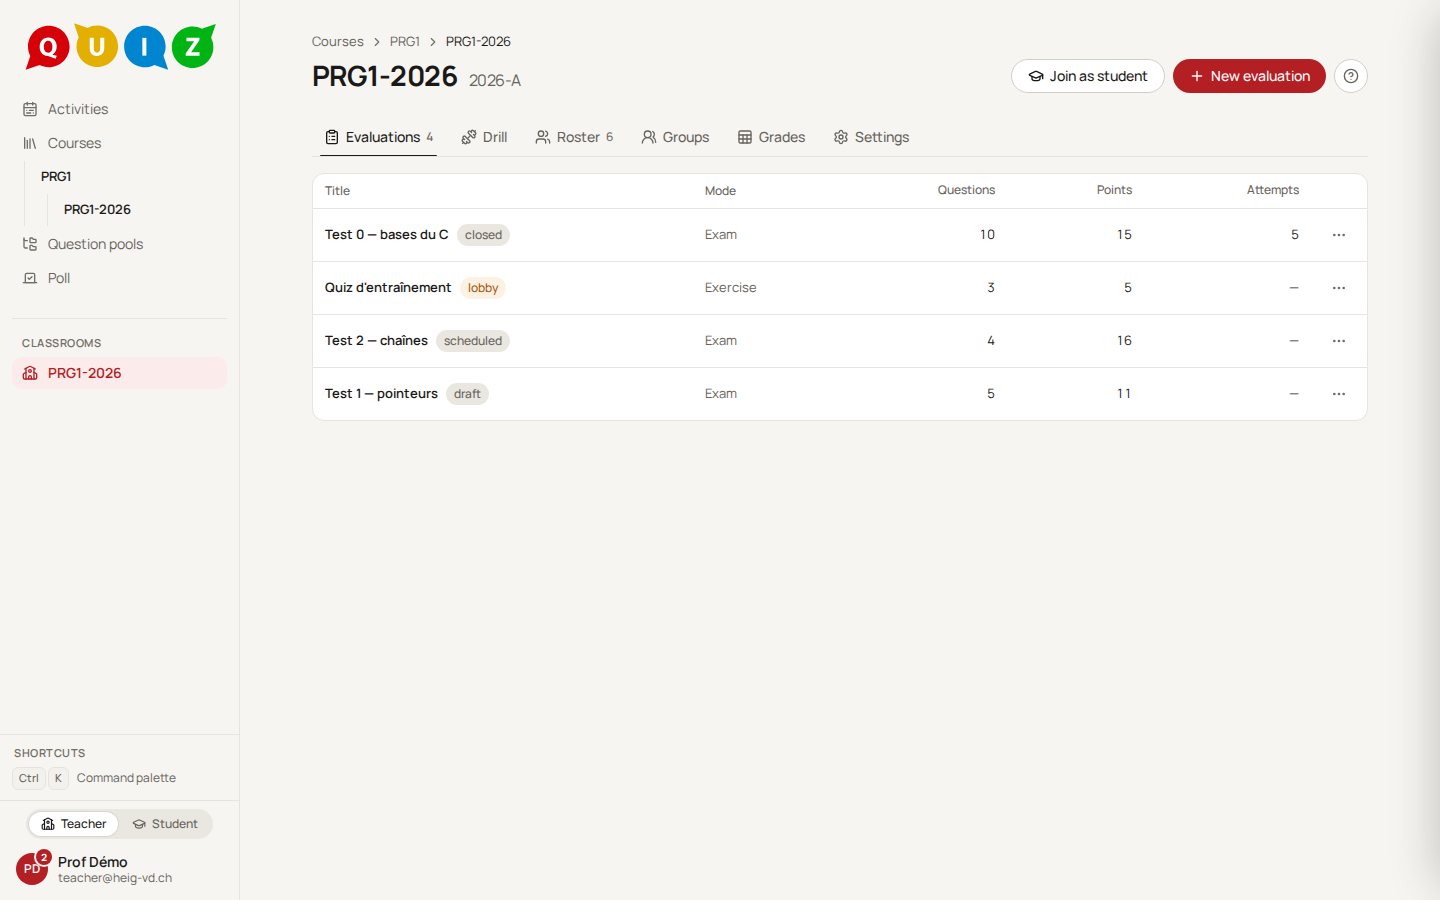
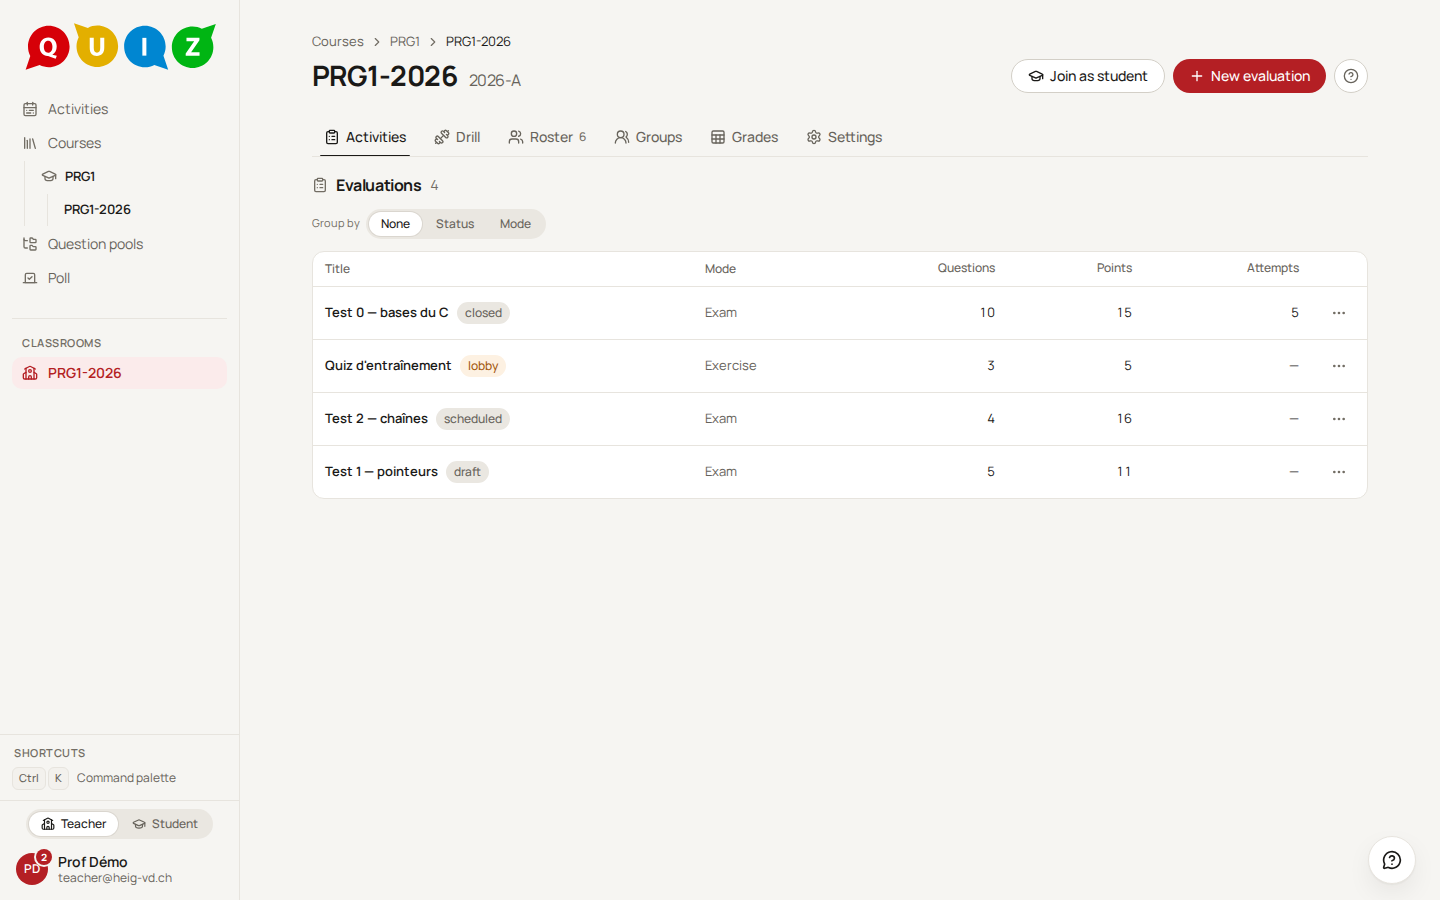
Classroom: rename the Evaluations tab to Activities and head both lists (#701)
* feat(web): rename the classroom's Evaluations tab to Activities and head both lists (#683)

The tab holds evaluations and projects, so it is now Activities with no
count; an Evaluations section heading, the sibling of Projects, carries
the evaluations' count. The tab's value and URL are unchanged.

* fix(web): always draw the Evaluations heading, refresh docs and screenshots (#683)

---------

diff --git a/apps/web/src/ClassroomView.tsx b/apps/web/src/ClassroomView.tsx
@@ -55,10 +55,9 @@ import { classroomKey } from "./queryKeys";
 import { Trail, useClassroomCrumbs } from "./Trail";
 import { invalidateHint } from "./realtime/hints";
 import { useClassroom } from "./course/parts";
-import { useEvaluations } from "./evaluation/api";
 
 /**
- * One classroom: its roster, its evaluations, its drill and its settings,
+ * One classroom: its roster, its activities, its drill and its settings,
  * one tab each.
  *
  * Two lists that never answer the same question sat stacked on one page, so
@@ -66,9 +65,10 @@ import { useEvaluations } from "./evaluation/api";
  * tabs also settle the primary action, and the page header carries it in the
  * same slot whichever tab is open: "Add students" on the roster — an empty
  * roster is the only thing that blocks everything a classroom is for — and
- * "New evaluation" on the evaluations (#295), a "New ▾" of Evaluation and
- * Project since M3-10 (`NewActivity`), whose projects are a group under the
- * evaluations (`ProjectGroup`). The third tab, the drill
+ * "New evaluation" on the Activities tab (#295, #683), a "New ▾" of Evaluation
+ * and Project since M3-10 (`NewActivity`), whose projects are a section under
+ * the evaluations' (`ProjectGroup`). The tab's value stays `evaluations`, so
+ * old links keep working. The third tab, the drill
  * (ADR-041, #317), is a read view — each student's practice — so the slot
  * stays empty there. The fourth, Settings (F-ORG-13, D24), is a route of its
  * own (`/classrooms/:id/settings`): rename, archive, delete and the drill
@@ -210,14 +210,6 @@ export function ClassroomView({
 
   const crumbs = useClassroomCrumbs(id);
   const room = useClassroom(id);
-  /**
-   * The evaluations, for the number on their tab. It is the query the list
-   * itself runs, key included, so the count and the rows are one cache entry
-   * and can never disagree — a count carried by the classroom payload would
-   * still read "2" the moment after a third evaluation was created.
-   */
-  const evaluations = useEvaluations(id);
-
   /**
    * The teacher takes a (staff) seat in their own classroom, to walk the
    * student flow without a second account. It stays out of the headcount.
@@ -361,10 +353,9 @@ export function ClassroomView({
           items={[
             {
               value: "evaluations",
-              label: t("eval.title"),
-              // No number while the list is loading or failed: a "0" that
-              // means "not known yet" is worse than no count at all.
-              count: evaluations.data?.length,
+              // "Activities": evaluations and projects, each list counting
+              // itself under its own heading (#683), so the tab has no number.
+              label: t("classroom.tab.activities"),
               icon: ClipboardList,
               coach: "classroom.tab.evaluations",
             },

diff --git a/apps/web/src/ClassroomView.test.tsx b/apps/web/src/ClassroomView.test.tsx
@@ -85,7 +85,7 @@ describe("ClassroomView", () => {
       [`GET ${EVALUATIONS}`]: ok([]),
     });
     renderWithProviders(<ClassroomView id="r1" navigate={vi.fn()} />);
-    expect(await screen.findByRole("tab", { name: /Evaluations/ })).toHaveAttribute(
+    expect(await screen.findByRole("tab", { name: /Activities/ })).toHaveAttribute(
       "aria-selected",
       "true",
     );
@@ -98,7 +98,7 @@ describe("ClassroomView", () => {
       [`GET ${EVALUATIONS}`]: ok([]),
     });
     renderWithProviders(<ClassroomView id="r1" navigate={vi.fn()} />);
-    expect(await screen.findByRole("tab", { name: /Evaluations/ })).toHaveAttribute(
+    expect(await screen.findByRole("tab", { name: /Activities/ })).toHaveAttribute(
       "aria-selected",
       "true",
     );
@@ -191,16 +191,25 @@ describe("ClassroomView", () => {
     expect(screen.getByRole("tab", { name: /Roster/ })).toHaveTextContent("2");
   });
 
-  it("counts the evaluations on their tab", async () => {
+  it("names the tab Activities, with no count, and counts the evaluations under their heading", async () => {
     mockFetch({
       [`GET ${ROOM}`]: ok(makeClassroomDetail()),
       [`GET ${EVALUATIONS}`]: ok([summary({ title: "Test 0" }), summary({ title: "Test 1" })]),
     });
-    renderWithProviders(<ClassroomView id="r1" navigate={vi.fn()} />, { route: ROSTER_TAB });
-    // The roster tab is the one on screen: the count comes from the list's
-    // own query, not from the panel being mounted.
-    const tab = await screen.findByRole("tab", { name: /Evaluations/ });
-    await waitFor(() => expect(tab).toHaveTextContent("2"));
+    renderWithProviders(<ClassroomView id="r1" navigate={vi.fn()} />);
+    const tab = await screen.findByRole("tab", { name: /Activities/ });
+    expect(tab).toHaveTextContent(/^Activities$/);
+    expect(await screen.findByRole("heading", { name: /Evaluations/ })).toBeVisible();
+    expect(await screen.findByText("Test 1")).toBeVisible();
+    expect(screen.getByRole("region", { name: /Evaluations/ })).toHaveTextContent(/Evaluations\s*2/);
+  });
+
+  it("keeps the Evaluations heading above the empty state", async () => {
+    mockFetch({ [`GET ${ROOM}`]: ok(makeClassroomDetail()), [`GET ${EVALUATIONS}`]: ok([]) });
+    renderWithProviders(<ClassroomView id="r1" navigate={vi.fn()} />);
+    await screen.findByRole("tab", { name: /Activities/ });
+    await screen.findByText("No evaluation yet");
+    expect(screen.getByRole("heading", { name: /Evaluations/ })).toBeVisible();
   });
 
   it("moves between the two tabs and writes the choice to the URL", async () => {

diff --git a/apps/web/src/evaluation/EvaluationList.tsx b/apps/web/src/evaluation/EvaluationList.tsx
@@ -20,6 +20,7 @@ import {
   Menu,
   pressable,
   QueryError,
+  SectionHeading,
   GroupBySwitch,
   Select,
   Skeleton,
@@ -300,13 +301,17 @@ export function EvaluationList({
   const open = (row: EvaluationSummary) => navigate(evaluationHome(row));
 
   return (
-    <section className="space-y-3">
-      {/* No heading and no button: the tab above names the list, and "New
-          evaluation" sits in the page header, where "Add students" stands on
-          the roster tab — one primary per tab, always in the same place.
-          The classroom's projects, when it has any, follow under a heading
-          of their own (`ProjectGroup`, M3-10): the tab names this list, not
-          the second one. */}
+    <section aria-labelledby="classroom-evaluations" className="space-y-3">
+      {/* No button: "New evaluation" sits in the page header, where "Add
+          students" stands on the roster tab — one primary per tab, always in
+          the same place. The heading is the sibling of the projects' one
+          (`ProjectGroup`, M3-10): the tab is "Activities", each list names
+          itself and carries its own count (none while it loads or failed). */}
+      <SectionHeading
+        icon={ClipboardList}
+        title={<span id="classroom-evaluations">{t("eval.title")}</span>}
+        count={list.data?.length}
+      />
       {list.isLoading ? (
         <Skeleton className="h-40 w-full" />
       ) : list.isError || !list.data ? (

diff --git a/apps/web/src/project/ProjectGroup.tsx b/apps/web/src/project/ProjectGroup.tsx
@@ -26,17 +26,16 @@ import {
 type SortKey = "title" | "start" | "deadline";
 
 /**
- * The classroom's projects (F-PROJ-01, M3-10), a group under its evaluations
- * on the same tab: the Evaluations table stays as it was, and this one only
- * exists while the classroom HAS a project. A classroom that never used
+ * The classroom's projects (F-PROJ-01, M3-10), a section under the evaluations'
+ * on the Activities tab (#683): this one only exists while the classroom HAS a project. A classroom that never used
  * GitHub — most of them — reads exactly as before, and so does a platform
  * without the App (the route answers 404). For the same reason nothing is
  * drawn while the list loads: the group's very existence is what is not
  * known yet, and a skeleton that collapses to nothing on most classrooms is
  * a jump on every visit. A failure says so, with a retry.
  *
- * It carries a heading and the evaluations do not: the tab already names
- * the evaluations, and the projects are the second thing on it.
+ * Its heading is the sibling of the evaluations' (`EvaluationList`): each
+ * list names itself and carries its own count.
  *
  * No button: "New ▾ › Project" is in the page header, the tab's one primary.
  * A row is a title, its state, its start and its deadline, and opens the

diff --git a/apps/web/src/i18n/fr.ts b/apps/web/src/i18n/fr.ts
@@ -4839,6 +4839,7 @@ export const fr: Record<keyof Dict, string> = {
   "drill.optOut.done": "Vous avez quitté les révisions de {name}.",
   "drill.optIn.done": "Vous avez rejoint à nouveau les révisions de {name}.",
   "drill.failed": "Impossible de modifier les révisions",
+  "classroom.tab.activities": "Activités",
   "classroom.drill.desc": "Les étudiants travaillent, à intervalles espacés, les questions des évaluations passées qui autorisent les révisions. Ils y participent par défaut et peuvent s'en retirer ; vous voyez leur activité.",
   "classroom.drill.on": "Révisions activées.",
   "classroom.drill.off": "Révisions désactivées.",

diff --git a/apps/web/src/i18n/en.ts b/apps/web/src/i18n/en.ts
@@ -4844,6 +4844,7 @@ export const en = {
   "drill.optIn.done": "You are back in the drill of {name}.",
   "drill.failed": "Could not change the drill",
   // The drill (ADR-041, #317): the teacher's switches.
+  "classroom.tab.activities": "Activities",
   "classroom.drill.desc": "Students practise the questions of past evaluations that allow the drill, at spaced intervals. They are in by default and may opt out; you see their activity.",
   "classroom.drill.on": "Drill on.",
   "classroom.drill.off": "Drill off.",

diff --git a/docs/guide/classrooms.md b/docs/guide/classrooms.md
@@ -35,15 +35,15 @@ On the course page's **Classrooms** tab, click **New classroom**. A classroom ha
 
 ### The classroom screen
 
-The eyebrow above the title names the course and goes back to it. The title is the classroom's name, followed by the page's help **?**, by the period and, when the classroom is connected to GitHub, by its organization. Under the title, four tabs, and the primary action at the right of the title changes with the tab, always in the same place: **Add students** on the roster, **New evaluation** on the evaluations; the **Drill** tab is a read view and **Settings** a page of settings, and neither has one.
+The eyebrow above the title names the course and goes back to it. The title is the classroom's name, followed by the page's help **?**, by the period and, when the classroom is connected to GitHub, by its organization. Under the title, four tabs, and the primary action at the right of the title changes with the tab, always in the same place: **Add students** on the roster, **New evaluation** on the activities; the **Drill** tab is a read view and **Settings** a page of settings, and neither has one.
 
 <figure markdown="span">
-  ![A classroom, on its evaluations tab](../assets/screenshots/classroom-evaluations-light.png#only-light)
-  ![A classroom, on its evaluations tab](../assets/screenshots/classroom-evaluations-dark.png#only-dark)
-  <figcaption>The Evaluations tab: one row per evaluation, with its state, its mode, its questions, its points and its attempts.</figcaption>
+  ![A classroom, on its Activities tab](../assets/screenshots/classroom-evaluations-light.png#only-light)
+  ![A classroom, on its Activities tab](../assets/screenshots/classroom-evaluations-dark.png#only-dark)
+  <figcaption>The Activities tab, Evaluations section: one row per evaluation, with its state, its mode, its questions, its points and its attempts.</figcaption>
 </figure>
 
-**Evaluations** lists the evaluations you run with this group, each with its state: draft, scheduled, waiting room (shown as *lobby*), running, paused, closed, grading, released. The row's menu leads to what the state allows: the setup, the live dashboard, the grading panel or the results. The chapters [Evaluations](evaluations.md), [Running an evaluation](live.md) and [Grading and results](grading.md) take it from there.
+The **Activities** tab opens on an **Evaluations** section, which lists the evaluations you run with this group, each with its state: draft, scheduled, waiting room (shown as *lobby*), running, paused, closed, grading, released. The row's menu leads to what the state allows: the setup, the live dashboard, the grading panel or the results. The chapters [Evaluations](evaluations.md), [Running an evaluation](live.md) and [Grading and results](grading.md) take it from there.
 
 <figure markdown="span">
   ![The same classroom, on its roster tab](../assets/screenshots/classroom-roster-light.png#only-light)
@@ -120,7 +120,7 @@ GitHub is optional: a classroom that is never connected is a plain Quiz classroo
 - Once connected, the section shows the organization and three checks: the App installed with access to every repository (the only one that blocks), the organization's plan (on the free plan, no rulesets and no organization secrets for private repositories), and the `ANTHROPIC_API_KEY` secret the LLM review of projects needs (present, missing, or unknown when the App cannot read secrets).
 - **Disconnect** deletes nothing on GitHub. It is refused while the classroom has a journal: remove the journal first.
 
-Once connected, the classroom can hold [projects](projects.md) (**New**, then **Project**, on the Evaluations tab) and its **Groups** tab keeps the [group sets](groups.md) they follow. Installing the App, the checks and what students must do to link their account are in [Connecting GitHub](github.md).
+Once connected, the classroom can hold [projects](projects.md) (**New**, then **Project**, on the Activities tab) and its **Groups** tab keeps the [group sets](groups.md) they follow. Installing the App, the checks and what students must do to link their account are in [Connecting GitHub](github.md).
 
 Your own GitHub account is linked from your **Settings** page, in its **GitHub** card, which shows once you are on the staff of a connected classroom, or hold a seat as a student in one. **Link GitHub** goes through GitHub's authorisation and comes back to the page you started from, with a message saying it is linked, already linked to another Quiz account, or failed. **Unlink** undoes it.
 

diff --git a/apps/web/src/help/classroom.fr.md b/apps/web/src/help/classroom.fr.md
@@ -22,18 +22,19 @@ tant qu'étudiant** fait tout cela d'un clic — la place vous est proposée si
 vous n'en avez pas, puis la vraie salle d'attente et le vrai lecteur
 s'ouvrent.
 
-## Évaluations
+## Activités
 
-Les évaluations de cette classe, chacune avec son état — brouillon,
-planifiée, salle d'attente, en cours, en pause, clôturée, correction,
-publiée. Depuis une ligne, vous atteignez sa configuration, le tableau de
-bord, le panneau de correction ou les résultats, selon l'endroit où elle en
-est. **Nouvelle évaluation**, en haut à droite tant que cet onglet est
-ouvert, en crée une. Là où la plateforme offre les projets, ce bouton est
-**Nouveau**, un menu d'**Évaluation** et de **Projet** : un projet demande
-la classe connectée à GitHub, et sur une classe qui ne l'est pas, Projet
-ouvre d'abord la connexion dans les Réglages. Les projets de la classe sont
-listés sous ses évaluations, chacun avec son état, son début et son
+L'onglet réunit les activités de la classe. **Évaluations** liste ses
+évaluations, chacune avec son état — brouillon, planifiée, salle d'attente,
+en cours, en pause, clôturée, correction, publiée. Depuis une ligne, vous
+atteignez sa configuration, le tableau de bord, le panneau de correction ou
+les résultats, selon l'endroit où elle en est. **Nouvelle évaluation**, en
+haut à droite tant que cet onglet est ouvert, en crée une. Là où la
+plateforme offre les projets, ce bouton est **Nouveau**, un menu
+d'**Évaluation** et de **Projet** : un projet demande la classe connectée à
+GitHub, et sur une classe qui ne l'est pas, Projet ouvre d'abord la
+connexion dans les Réglages. Les projets de la classe sont listés sous
+**Projets**, sous les évaluations, chacun avec son état, son début et son
 échéance.
 
 ## Réglages

diff --git a/apps/web/src/help/classroom.md b/apps/web/src/help/classroom.md
@@ -20,18 +20,18 @@ stays out of the headcount. From an evaluation, **View as student** does the
 whole thing in one click — it offers the seat if you have none, then walks
 you through the real waiting room and player.
 
-## Evaluations
+## Activities
 
-The evaluations of this classroom, each with its state — draft, scheduled,
-waiting room, running, paused, closed, grading, released. From a row you
-reach its configuration, the live dashboard, the grading panel or the
-results, depending on where it stands. **New evaluation**, at the top right
-while this tab is open, creates one. Where the platform offers projects, that
-button is **New**, a menu of **Evaluation** and **Project**: a project needs
-the classroom connected to GitHub, and on a classroom that is not, Project
-opens the connection in the Settings first. The classroom's projects are
-listed under its evaluations, each with its state, its start and its
-deadline.
+The tab holds the classroom's activities. **Evaluations** lists its
+evaluations, each with its state — draft, scheduled, waiting room, running,
+paused, closed, grading, released. From a row you reach its configuration,
+the live dashboard, the grading panel or the results, depending on where it
+stands. **New evaluation**, at the top right while this tab is open, creates
+one. Where the platform offers projects, that button is **New**, a menu of
+**Evaluation** and **Project**: a project needs the classroom connected to
+GitHub, and on a classroom that is not, Project opens the connection in the
+Settings first. The classroom's projects are listed under **Projects**, below
+the evaluations, each with its state, its start and its deadline.
 
 ## Settings
 

diff --git a/docs/guide/live.md b/docs/guide/live.md
@@ -4,7 +4,7 @@ The live dashboard is the screen you keep open while the class takes an evaluati
 
 ## Reaching the dashboard
 
-From the classroom's **Evaluations** tab, a row in `lobby`, `running` or `paused` opens the dashboard on a click; the row's menu also offers **Live dashboard** for any evaluation past `draft`. From the configuration screen, the **Launch** tab of a live evaluation shows **Go to the dashboard**.
+From the classroom's **Activities** tab, a row in `lobby`, `running` or `paused` opens the dashboard on a click; the row's menu also offers **Live dashboard** for any evaluation past `draft`. From the configuration screen, the **Launch** tab of a live evaluation shows **Go to the dashboard**.
 
 The **Configure** link above the title leads back to the three configuration steps, where nothing structural can change any more.
 

diff --git a/docs/guide/evaluations.md b/docs/guide/evaluations.md
@@ -4,7 +4,7 @@ An evaluation is an ordered list of questions taken from the pools of a course, 
 
 ## Create an evaluation
 
-Open the classroom and its **Evaluations** tab (see [Classrooms](classrooms.md)), then click **New evaluation**. Give it a **Title** and pick a **Mode**:
+Open the classroom and its **Activities** tab (see [Classrooms](classrooms.md)), then click **New evaluation**. Give it a **Title** and pick a **Mode**:
 
 - **Exam**: graded, taken in one sitting, no feedback before you release the results.
 - **Exercise**: practice, with feedback as soon as a question is validated; it starts Live, open until you close it, and **Scheduled** gives it a deadline.

diff --git a/changes/classroom-activities-tab.md b/changes/classroom-activities-tab.md
@@ -1,0 +1,6 @@
+---
+audience: teacher
+kind: changed
+en: The classroom's first tab is now **Activities**, with an **Evaluations** section above the **Projects** one, each with its own count.
+fr: Le premier onglet d'une classe s'appelle désormais **Activités**, avec une section **Évaluations** au-dessus de celle des **Projets**, chacune avec son propre compteur.
+---
